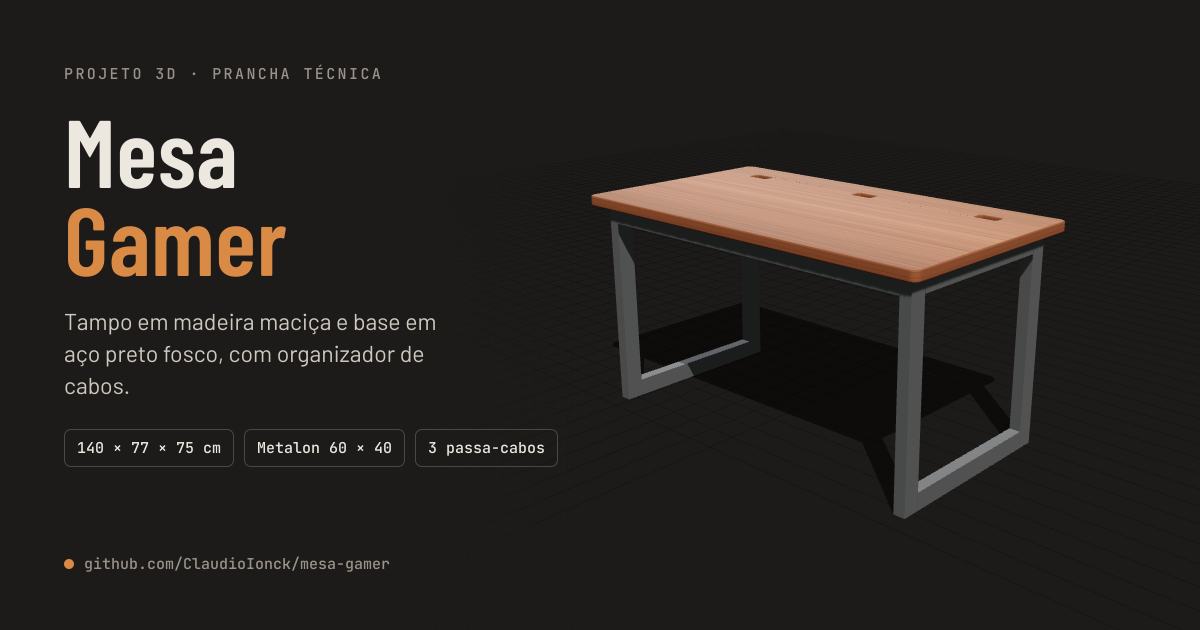
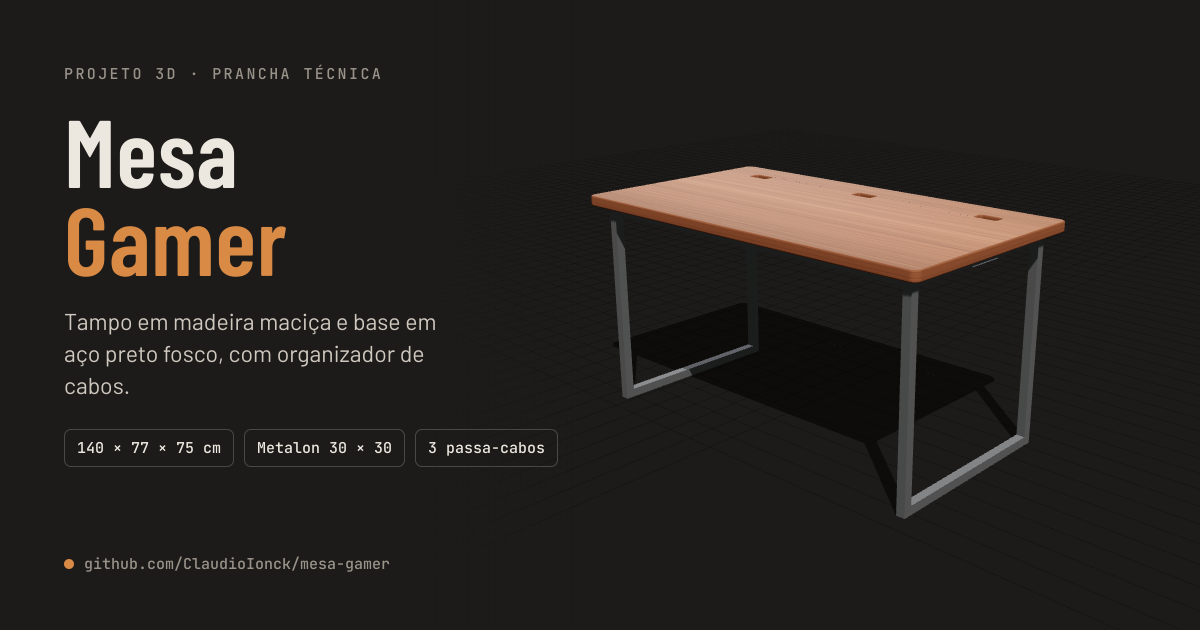
Troca o perfil da base para metalon 30x30
- Pés, quadros, travessas e travessa central em metalon 30x30 (chapa 16)
- Travessa central passa a 420 mm; furos das pontas a 80 mm do quadro
- Prancha técnica (SVG/PNG), imagem de compartilhamento e README atualizados

Claude-Session: https://claude.ai/code/session_01YJ4UWfBgaHAU3627i1rmiG

Changed region(s): [[0.74, 0.3921, 0.8633, 0.8143], [0.5242, 0.4222, 0.6167, 0.6333]]

diff --git a/index.html b/index.html
@@ -257,7 +257,7 @@ body.svg-mode #stage,body.svg-mode #labels,body.svg-mode .card,body.svg-mode .hi
   const P = {
     topL:1400, topW:770, topT:35,
     inset:50, baseH:715,
-    tubeA:60, tubeB:40, tubeWall:1.5,   // metalon 60 x 40, chapa 16 (1,5 mm)
+    tubeA:30, tubeB:30, tubeWall:1.5,   // metalon 30 x 30, chapa 16 (1,5 mm)
     tabL:60, tabW:40, tabT:3, holeL:18, holeW:7,   // abas de fixação: 60 x 40 x 3 com furo oblongo 18 x 7
     railMode:2,                         // 2 = frente + trás · 1 = uma central
     rearSetback:240,                    // borda traseira do tampo → face de trás da travessa traseira
@@ -785,7 +785,7 @@ function buildSheet(unit){
   function ground(x0,x1,y){ rect(x0,y,x1-x0,6,'gh'); line(x0,y,x1,y,'o'); }
 
   // ---------- Medidas do projeto (mm) ----------
-  const L=1400, W=770, T=35, H=750, BH=715, A=60, B=40, IN=50;
+  const L=1400, W=770, T=35, H=750, BH=715, A=30, B=30, IN=50;          // metalon 30 x 30
   const BL=1300, BW=670, FX=BL/2-B;         // FX = face interna dos quadros (610)
   const legZ=BW/2-A;                        // 275: face interna dos pés no sentido Z
   const RF=BW/2-B, RB=-W/2+240;             // travessa frontal: z 295..335 · traseira: z -145..-105
@@ -923,7 +923,7 @@ function buildSheet(unit){
   dimH(sx(BW/2),GY,sx(legZ),GY,GY+36,v(A));
   dimV(sx(-W/2),fy(H),sx(-BW/2),GY,sx(-W/2)+26,v(H));
   dimV(sx(0),fy(BH),sx(0),fy(BH-A),sx(0)+10,v(A));
-  dimH(sx(RB),fy(BH-A),sx(TR.z1),fy(TR.y0),fy(TR.y0)+16,'folga '+v(30),{left:true});
+  dimH(sx(RB),fy(BH-A),sx(TR.z1),fy(TR.y0),fy(TR.y0)+16,'folga '+v(RB-(-W/2+TR.z1+W/2)),{left:true});
   dimH(sx(TR.z1),fy(TR.y0),sx(TR.z0),fy(TR.y0),fy(TR.y0)+16,v(150));
 
   // ================= M02 — PLANTA =================
@@ -975,7 +975,7 @@ function buildSheet(unit){
   dimV(px(L/2-30),pz(-W/2),px(FX+B),pz(RB),px(L/2)+40,v(240));
   dimV(px(FX+B),pz(RF+B),px(L/2-30),pz(W/2),px(L/2)+40,v(IN));
   dimH(px(-TR.x),pz(TR.z1),px(TR.x),pz(TR.z1),pz(-28),'calha '+v(1000),{dx:-60});
-  dimH(px(SLX[2]+SW/2),null,px(FX),null,pz(SLZ),v(70));
+  dimH(px(SLX[2]+SW/2),null,px(FX),null,pz(SLZ),v(FX-SLX[2]-SW/2));
   dimH(px(-L/2),pz(W/2-30),px(-BL/2),pz(BW/2),P1+18,v(IN));
   dimH(px(-BL/2),pz(BW/2),px(BL/2),pz(BW/2),P1+18,v(BL));
   dimH(px(BL/2),pz(BW/2),px(L/2),pz(W/2-30),P1+18,v(IN));
@@ -1013,7 +1013,7 @@ function buildSheet(unit){
     dimV(x0,y0,x0,y0+h,x0-16,v(A));
     dimH(x0,y0+h,x0+w,y0+h,y0+h+16,v(B));
     leader(x0+w-2,y0+h*0.3,x0+w+30,y0+14,'PAREDE '+v(1.5)+' (CHAPA 16)');
-    text(x0+w+30,y0+48,'Aço carbono · tubo retangular','lts');
+    text(x0+w+30,y0+48,'Aço carbono · tubo quadrado','lts');
     text(x0+w+30,y0+64,'Pintura eletrostática','lts');
     text(x0+w+30,y0+78,'preto fosco','lts');
     text(x0+w+30,y0+94,'Soldas contínuas e lixadas','lts');

diff --git a/README.md b/README.md
@@ -12,10 +12,10 @@ Para usar, abra o `index.html` no navegador. Não há build nem dependências lo
 | Altura total | 750 mm (base 715 + tampo 35) |
 | Recuo dos quadros da base | 50 mm em relação às 4 bordas do tampo |
 | Vão da base (C × L) | 1300 × 670 mm |
-| Base | quadro em aço carbono, metalon 60 × 40 mm, chapa 16 (1,5 mm), 715 mm de altura |
+| Base | quadro em aço carbono, metalon 30 × 30 mm, chapa 16 (1,5 mm), 715 mm de altura |
 | Abas de fixação | 10 abas superiores 60 × 40 × 3 mm, furo oblongo 18 × 7 mm no sentido da largura do tampo |
 | Travessas sob o tampo | frente a 50 mm da borda · trás a 240 mm do fundo |
-| Travessa central | transversal no eixo (700 mm de cada lado), 400 mm entre as travessas, metalon 60 × 40 mm |
+| Travessa central | transversal no eixo (700 mm de cada lado), 420 mm entre as travessas, metalon 30 × 30 mm |
 | Organizador de cabos | 1000 × 150 × 110 mm, chapa perfurada, a 60 mm do fundo |
 | Passa-cabos no tampo | 3 × (80 × 40 mm), centros a 200 · 700 · 1200 mm da borda esquerda e 135 mm do fundo |
 | Boleado das arestas e dos furos | raio 5 mm |
@@ -49,7 +49,7 @@ Todas as medidas ficam no objeto `P`, no início do script do `index.html`, semp
 const P = {
   topL:1400, topW:770, topT:35,   // tampo
   inset:50, baseH:715,            // recuo e altura da base
-  tubeA:60, tubeB:40,             // perfil metalon
+  tubeA:30, tubeB:30,             // perfil metalon
   rearSetback:240,                // recuo da travessa traseira
   trayL:1000, trayD:150, trayH:110,
   slotW:80, slotH:40, slotR:8,    // passa-cabos
